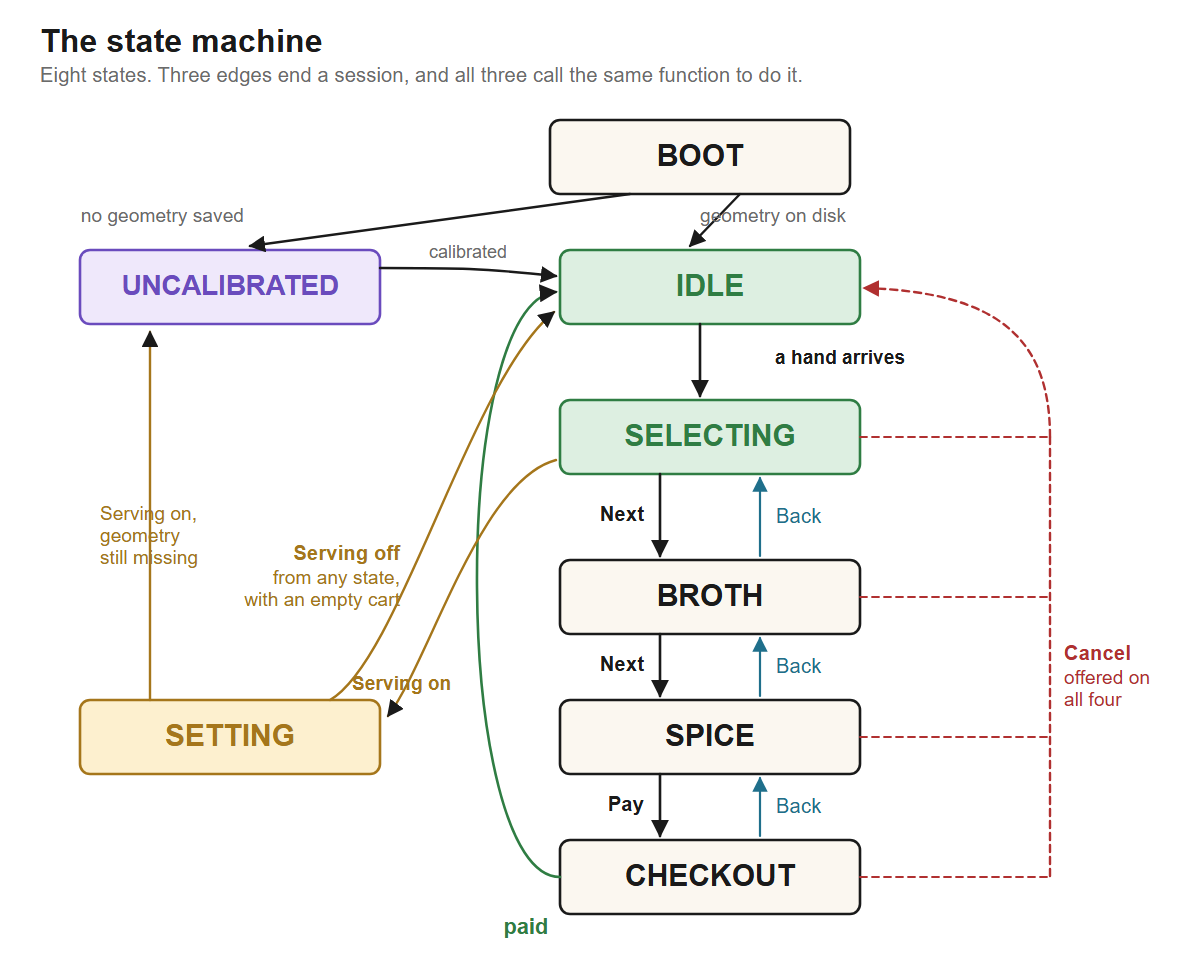
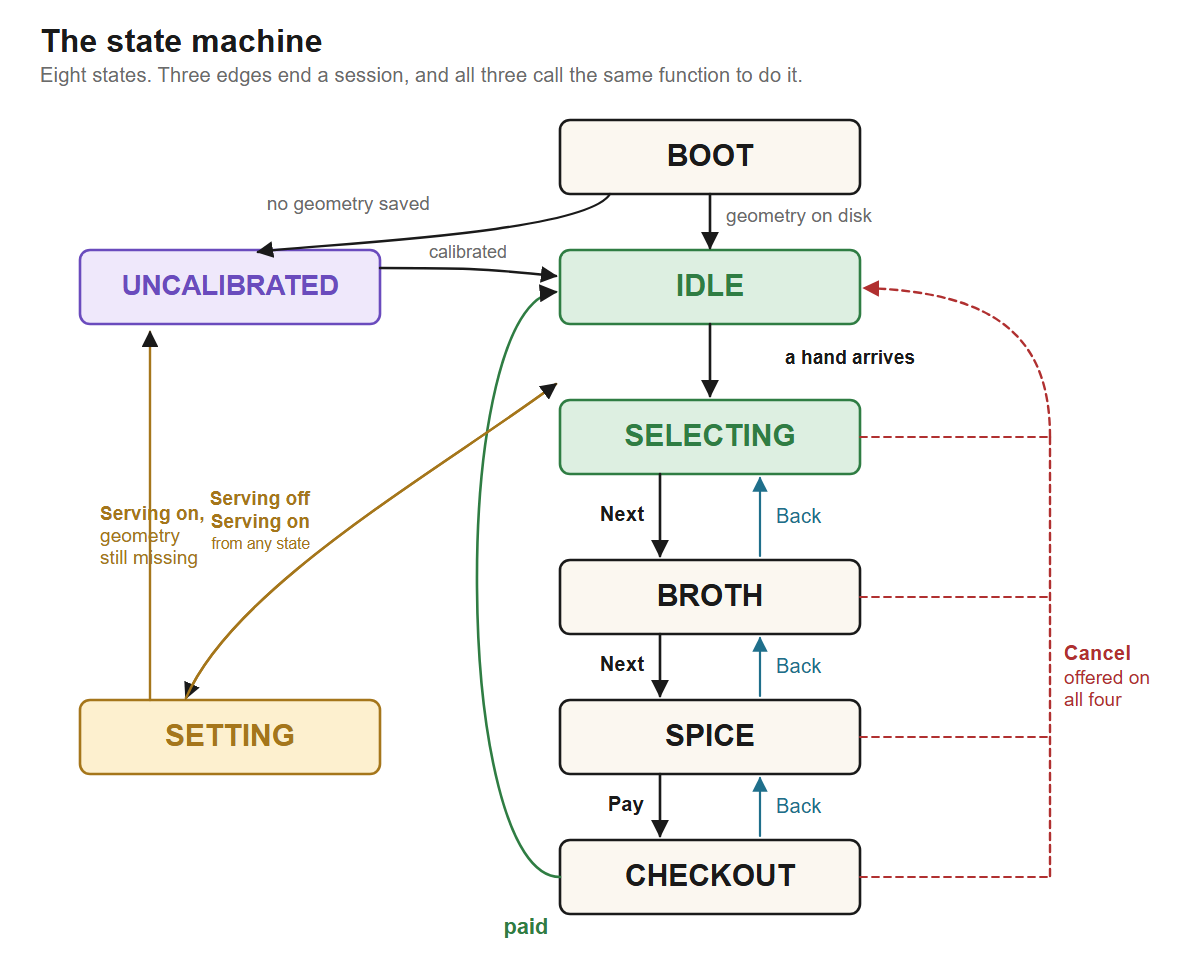
Straighten the boot arrows and merge the serving toggle
BOOT now sits directly above IDLE, so the boot-to-idle arrow drops
straight down instead of slanting; boot-to-uncalibrated is a curve
rather than a diagonal line. The separate "Serving off" and
"Serving on" arrows between the chain and SETTING, which crossed
and read as swapped, are now one arc headed both ways. Bold the
"Serving on," on the geometry-still-missing edge to match.

diff --git a/tools/render_diagrams.py b/tools/render_diagrams.py
@@ -532,7 +532,7 @@ def fsm():
     LX = 560          # chain left edge
     RX = 860          # chain right edge
 
-    node(CX - NW / 2, 120, NW, NH, "BOOT")
+    node(LX, 120, NW, NH, "BOOT")
     node(80, 250, 300, NH, "UNCALIBRATED", fill="#efe8fb", stroke="#6a4bbd",
          size=23)
     node(LX, 250, NW, NH, "IDLE", fill=GOOD_FILL, stroke=GOOD)
@@ -542,18 +542,19 @@ def fsm():
     node(LX, 840, NW, NH, "CHECKOUT")
     node(80, 700, 300, NH, "SETTING", fill="#fdf0cf", stroke="#a5761b")
 
-    # boot
-    s.line(CX - 70, 194, 250, 246, arrow="a", sw=2.4)
-    s.line(CX + 40, 194, 690, 246, arrow="a", sw=2.4)
-    s.text(244, 222, "no geometry saved", 16, MUTED, anchor="end")
-    s.text(700, 222, "geometry on disk", 16, MUTED)
+    # boot: straight down into IDLE, a curve out to UNCALIBRATED
+    s.line(710, 194, 710, 248, arrow="a", sw=2.6)
+    s.path("M 610 194 C 585 235, 300 245, 258 252", stroke=INK, sw=2.4,
+           arrow="a")
+    s.text(430, 210, "no geometry saved", 16, MUTED, anchor="end")
+    s.text(726, 222, "geometry on disk", 16, MUTED)
     s.path("M 380 268 C 460 268, 480 268, 556 276", stroke=INK, sw=2.4,
            arrow="a")
     s.label_on_line(468, 258, "calibrated", 15, MUTED, weight="normal")
 
     # idle -> selecting
-    s.line(CX, 324, CX, 396, arrow="a", sw=2.6)
-    s.label_on_line(CX + 140, 364, "a hand arrives", 16)
+    s.line(710, 324, 710, 396, arrow="a", sw=2.6)
+    s.label_on_line(710 + 140, 364, "a hand arrives", 16)
 
     # forward chain, labels to the LEFT
     for y0, y1, lab in ((474, 556, "Next"), (634, 696, "Next"), (774, 836, "Pay")):
@@ -580,20 +581,20 @@ def fsm():
     s.text(1064, 684, "offered on", 16, BAD)
     s.text(1064, 706, "all four", 16, BAD)
 
-    # setting: in
-    s.path("M 556 460 C 480 480, 430 660, 388 716", stroke="#a5761b", sw=2.4,
+    # setting: one staff toggle between the chain and SETTING, headed both
+    # ways (Serving off goes in, Serving on comes back out to IDLE)
+    s.path("M 556 384 C 440 470, 235 585, 186 698", stroke="#a5761b", sw=2.4,
            arrow="a")
-    s.text(400, 560, "Serving off", 17, "#a5761b", anchor="end", weight="bold")
-    s.text(400, 584, "from any state,", 16, "#a5761b", anchor="end")
-    s.text(400, 606, "with an empty cart", 16, "#a5761b", anchor="end")
-    # setting: out
+    s.path("M 186 698 C 235 585, 440 470, 556 384", stroke="#a5761b", sw=2.4,
+           arrow="a")
+    s.text(310, 505, "Serving off", 16, "#a5761b", anchor="end", weight="bold")
+    s.text(310, 528, "Serving on", 16, "#a5761b", anchor="end", weight="bold")
+    s.text(310, 549, "from any state", 13, "#a5761b", anchor="end")
+    # SETTING -> UNCALIBRATED, when the geometry is still missing
     s.path("M 150 700 L 150 332", stroke="#a5761b", sw=2.4, arrow="a")
-    s.text(100, 520, "Serving on,", 16, "#a5761b")
+    s.text(100, 520, "Serving on,", 16, "#a5761b", weight="bold")
     s.text(100, 542, "geometry", 16, "#a5761b")
     s.text(100, 564, "still missing", 16, "#a5761b")
-    s.path("M 330 700 C 400 660, 470 380, 554 312", stroke="#a5761b", sw=2.4,
-           arrow="a")
-    s.text(352, 690, "Serving on", 16, "#a5761b", weight="bold")
 
     s.save("architecture-state-machine.svg")
 
